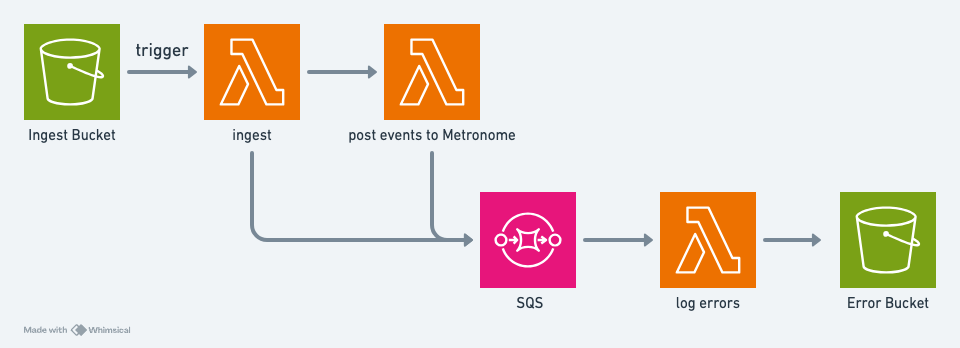
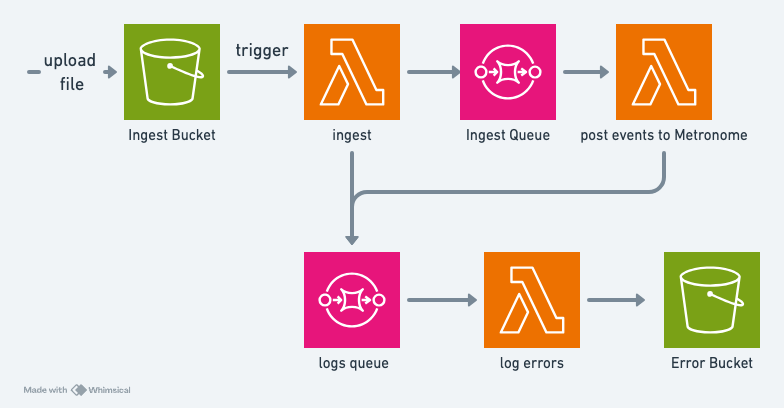
fix queues

diff --git a/src/lambdas/ingest/index.ts b/src/lambdas/ingest/index.ts
@@ -1,12 +1,10 @@
 import { S3Client, GetObjectCommand } from "@aws-sdk/client-s3";
-import { LambdaClient, InvokeCommand } from "@aws-sdk/client-lambda";
 import { SendMessageCommand, SQSClient } from "@aws-sdk/client-sqs";
 
 const sqsClient = new SQSClient({});
-const SQS_QUEUE_URL = process.env["SQS_QUEUE_URL"];
-
+const SQS_LOG_QUEUE_URL = process.env["SQS_LOG_QUEUE_URL"];
+const SQS_INGEST_QUEUE_URL = process.env["SQS_INGEST_QUEUE_URL"]
 const s3Client = new S3Client({});
-const lambdaClient = new LambdaClient({});
 const MAX_EVENTS_PER_INGEST_BATCH = 100;
 
 type MetronomeEvent = {
@@ -36,7 +34,7 @@ exports.handler = async (event: any) => {
     const response: GetObjectS3 = await fetchObjectFromS3(bucket, key); 
 
     if(response.error && response.error === true){
-        console.log('INFO - Error reading file - logging the error.');
+        console.log('Error reading file - logging the error to S3.');
         log({
             message: `ERROR reading object ${key} from bucket ${bucket}: JSON formating issue.`, 
             events: response.events ? JSON.stringify(response.events) : '', 
@@ -55,7 +53,7 @@ exports.handler = async (event: any) => {
             }   
         });
         if(eventsInvalid.length > 0){ 
-            console.log('INFO - events invalid - logging the malformed events.')
+            console.log('Events invalid - logging to S3 the malformed events.')
             await log({
                 message: `Metronome malformated events in file ${key}.`, 
                 events: eventsInvalid, 
@@ -70,23 +68,22 @@ exports.handler = async (event: any) => {
             const promises = requests.map( async (r: any) => { 
                 try {
                     console.log(`INFO - ${events.length} to be sent to Metronome in ${requests.length} requests.`)
-                    const response = await lambdaClient.send(new InvokeCommand({
-                        FunctionName: process.env["LAMBDA_NAME_SEND_TO_METRONOME"],
-                        InvocationType: "Event", 
-                        Payload: JSON.stringify( r ),
-                    }));   
+                    const response = await sqsClient.send(new SendMessageCommand({
+                        QueueUrl: SQS_INGEST_QUEUE_URL,
+                        MessageBody: JSON.stringify(r),
+                    }));
                     if(response && response['$metadata'] && response['$metadata'].httpStatusCode  && response['$metadata'].httpStatusCode > 399)
                         await log({
-                            message: `ERROR - Invoking the ${process.env["LAMBDA_NAME_SEND_TO_METRONOME"]} function with status ${response['$metadata'].httpStatusCode}`, 
+                            message: `Error sending message to the ingest queue with status ${response['$metadata'].httpStatusCode}`, 
                             events: r ,
                             type:'error',
                         });
-                    else console.log(`INFO - Lambda successfully invoked.`)
+                    else console.log(`Message successfully sent to ingest queue.`)
                     return response;
                 } catch (e) {
-                    console.log('INFO - Error while invoking lambda to send events to Metronome. Logging the error.')
+                    console.log('Error while sending message to ingest queue. Logging the error.')
                     await log({
-                        message: `ERROR - Exception Invoking the ${process.env["LAMBDA_NAME_SEND_TO_METRONOME"]} function ${JSON.stringify(e)}`, 
+                        message: `Exception sending message to ingest queue ${JSON.stringify(e)}`, 
                         events: r , 
                         type:'error'
                     });
@@ -104,7 +101,7 @@ const fetchObjectFromS3 = async function(bucket:string, key: string): Promise<Ge
     if(!fileExtension || (fileExtension !== 'csv' && fileExtension !== 'json' && fileExtension !== 'jsonl')){
         return {
             error: true,
-            message: `ERROR - object created with wrong format: ${key}. Supported file format extensions are csv, json and jsonl`,
+            message: `Object created with wrong format: ${key}. Supported file format extensions are csv, json and jsonl`,
         }
     }
     try {
@@ -194,7 +191,7 @@ const log = async function(log: Log): Promise<void> {
     else{
         try {
             const response = await sqsClient.send(new SendMessageCommand({
-                QueueUrl: SQS_QUEUE_URL,
+                QueueUrl: SQS_LOG_QUEUE_URL,
                 MessageBody: JSON.stringify(log),
             }));
             if(response && response["$metadata"] && response["$metadata"].httpStatusCode && response["$metadata"].httpStatusCode < 399)

diff --git a/src/lambdas/post_events/index.ts b/src/lambdas/post_events/index.ts
@@ -12,7 +12,8 @@ type Log = {
     events?: Array<any> | string,
 }
 
-exports.handler = async (events:any) => {
+exports.handler = async (msg: any) => {
+    const events = JSON.parse(msg.Records[0].body);
     try{
         await clientMetronome.usage.ingest(events);
         await log({
